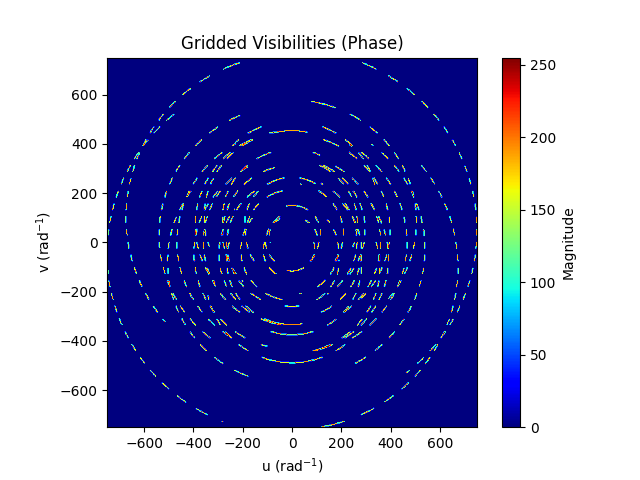
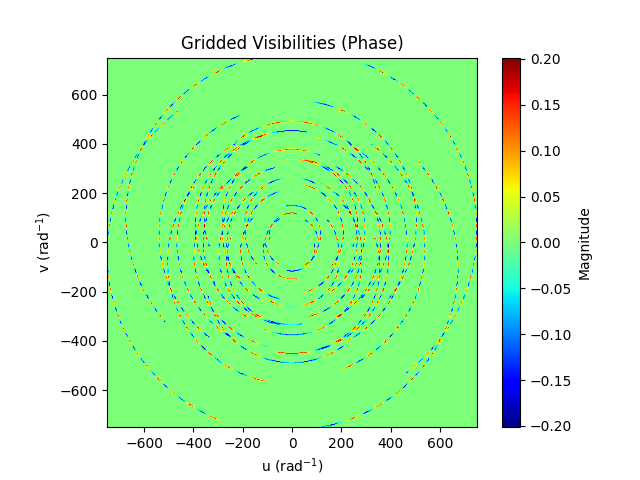
update

diff --git a/assignment2/PartB/simvis.py b/assignment2/PartB/simvis.py
@@ -146,14 +146,14 @@ class SimVis:
         u_max = np.ceil(self.u_max)
         v_max = np.ceil(self.v_max)
 
-        plt.imshow(log_scale(self.visibilities.real), extent=(u_min, u_max, v_min, v_max), cmap="jet")
+        plt.imshow(log_scale(self.visibilities), extent=(u_min, u_max, v_min, v_max), cmap="jet")
         plt.xlabel(r"u (rad$^{-1})$")
         plt.ylabel(r"v (rad$^{-1})$")
         plt.title('Visibilities (Amplitude)')
         plt.colorbar(label="Magnitude", orientation='vertical')
         plt.close()
 
-        plt.imshow(scale(np.angle(self.visibilities.imag)), extent=(u_min, u_max, v_min, v_max), cmap='jet')
+        plt.imshow(np.angle(self.visibilities), extent=(u_min, u_max, v_min, v_max), cmap='jet')
         plt.xlabel(r"u (rad$^{-1})$")
         plt.ylabel(r"v (rad$^{-1})$")
         plt.title('Visibilities (Phase)')
@@ -199,14 +199,14 @@ class SimVis:
 
     def plot_sampled_visibilities(self):
         plt.title("Sampling of the visibility space (amplitude)")
-        plt.imshow(log_scale(self.visibilities.real), cmap="jet")
+        plt.imshow(log_scale(self.visibilities), cmap="jet")
         plt.plot(self.scaled_uv[:, 0], self.scaled_uv[:, 1], "k.", label="Baselines")
         plt.colorbar(label="Magnitude", orientation='vertical')
         plt.savefig(self.results_dir / "sampled_vis_amp.png")
         plt.close()
 
         plt.title("Sampling of the visibility space (phase)")
-        plt.imshow(scale(np.angle(self.visibilities.imag)), cmap="jet")
+        plt.imshow(np.angle(self.visibilities), cmap="jet")
         plt.plot(self.scaled_uv[:, 0], self.scaled_uv[:, 1], "k.", label="Baselines")
         plt.colorbar(label="Magnitude", orientation='vertical')
         plt.savefig(self.results_dir / "sampled_vis_phase.png")
@@ -228,7 +228,7 @@ class SimVis:
         u_max = np.ceil(self.u_max)
         v_max = np.ceil(self.v_max)
 
-        plt.imshow(log_scale(self.gridded_vis.real), extent=(u_min, u_max, v_min, v_max), cmap="jet")
+        plt.imshow(log_scale(self.gridded_vis), extent=(u_min, u_max, v_min, v_max), cmap="jet")
         plt.xlabel(r"u (rad$^{-1})$")
         plt.ylabel(r"v (rad$^{-1})$")
         plt.title('Gridded Visibilities (Amplitude)')
@@ -236,7 +236,7 @@ class SimVis:
         plt.savefig(self.results_dir / "gridded_amp.png")
         plt.close()
 
-        plt.imshow(scale(np.angle(self.gridded_vis.imag)), extent=(u_min, u_max, v_min, v_max), cmap="jet")
+        plt.imshow(np.angle(self.gridded_vis), extent=(u_min, u_max, v_min, v_max), cmap="jet")
         plt.xlabel(r"u (rad$^{-1})$")
         plt.ylabel(r"v (rad$^{-1})$")
         plt.title('Gridded Visibilities (Phase)')
